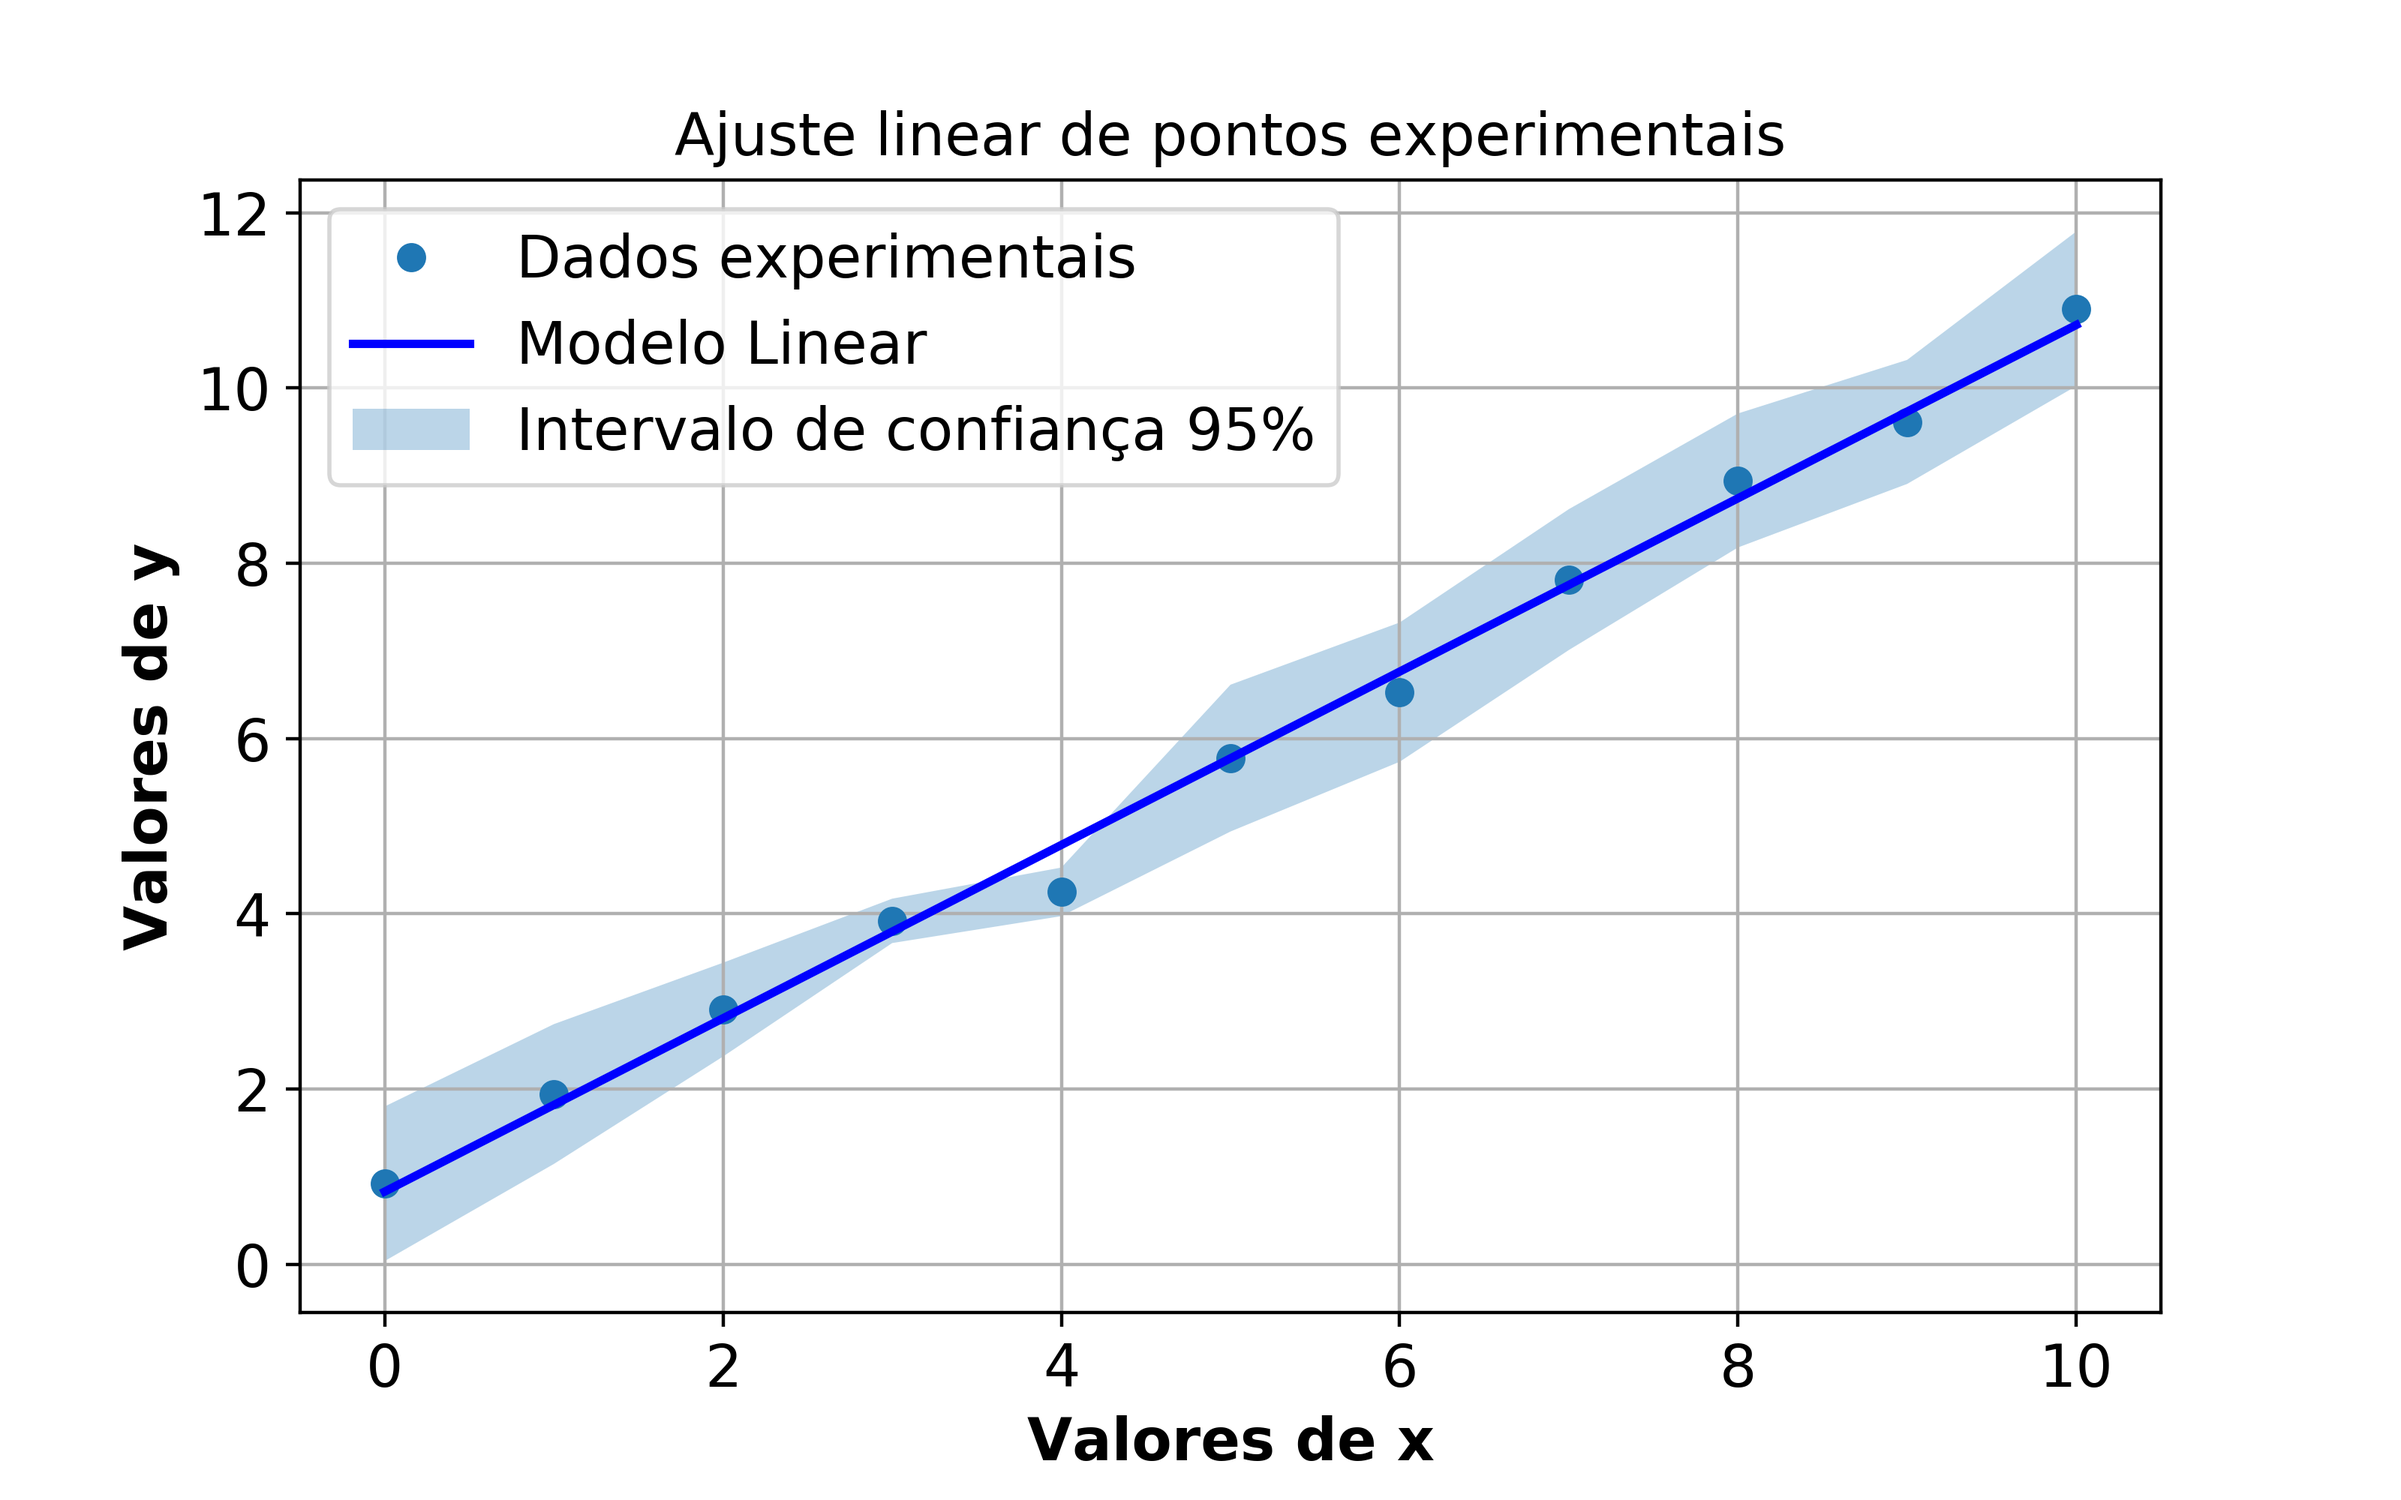
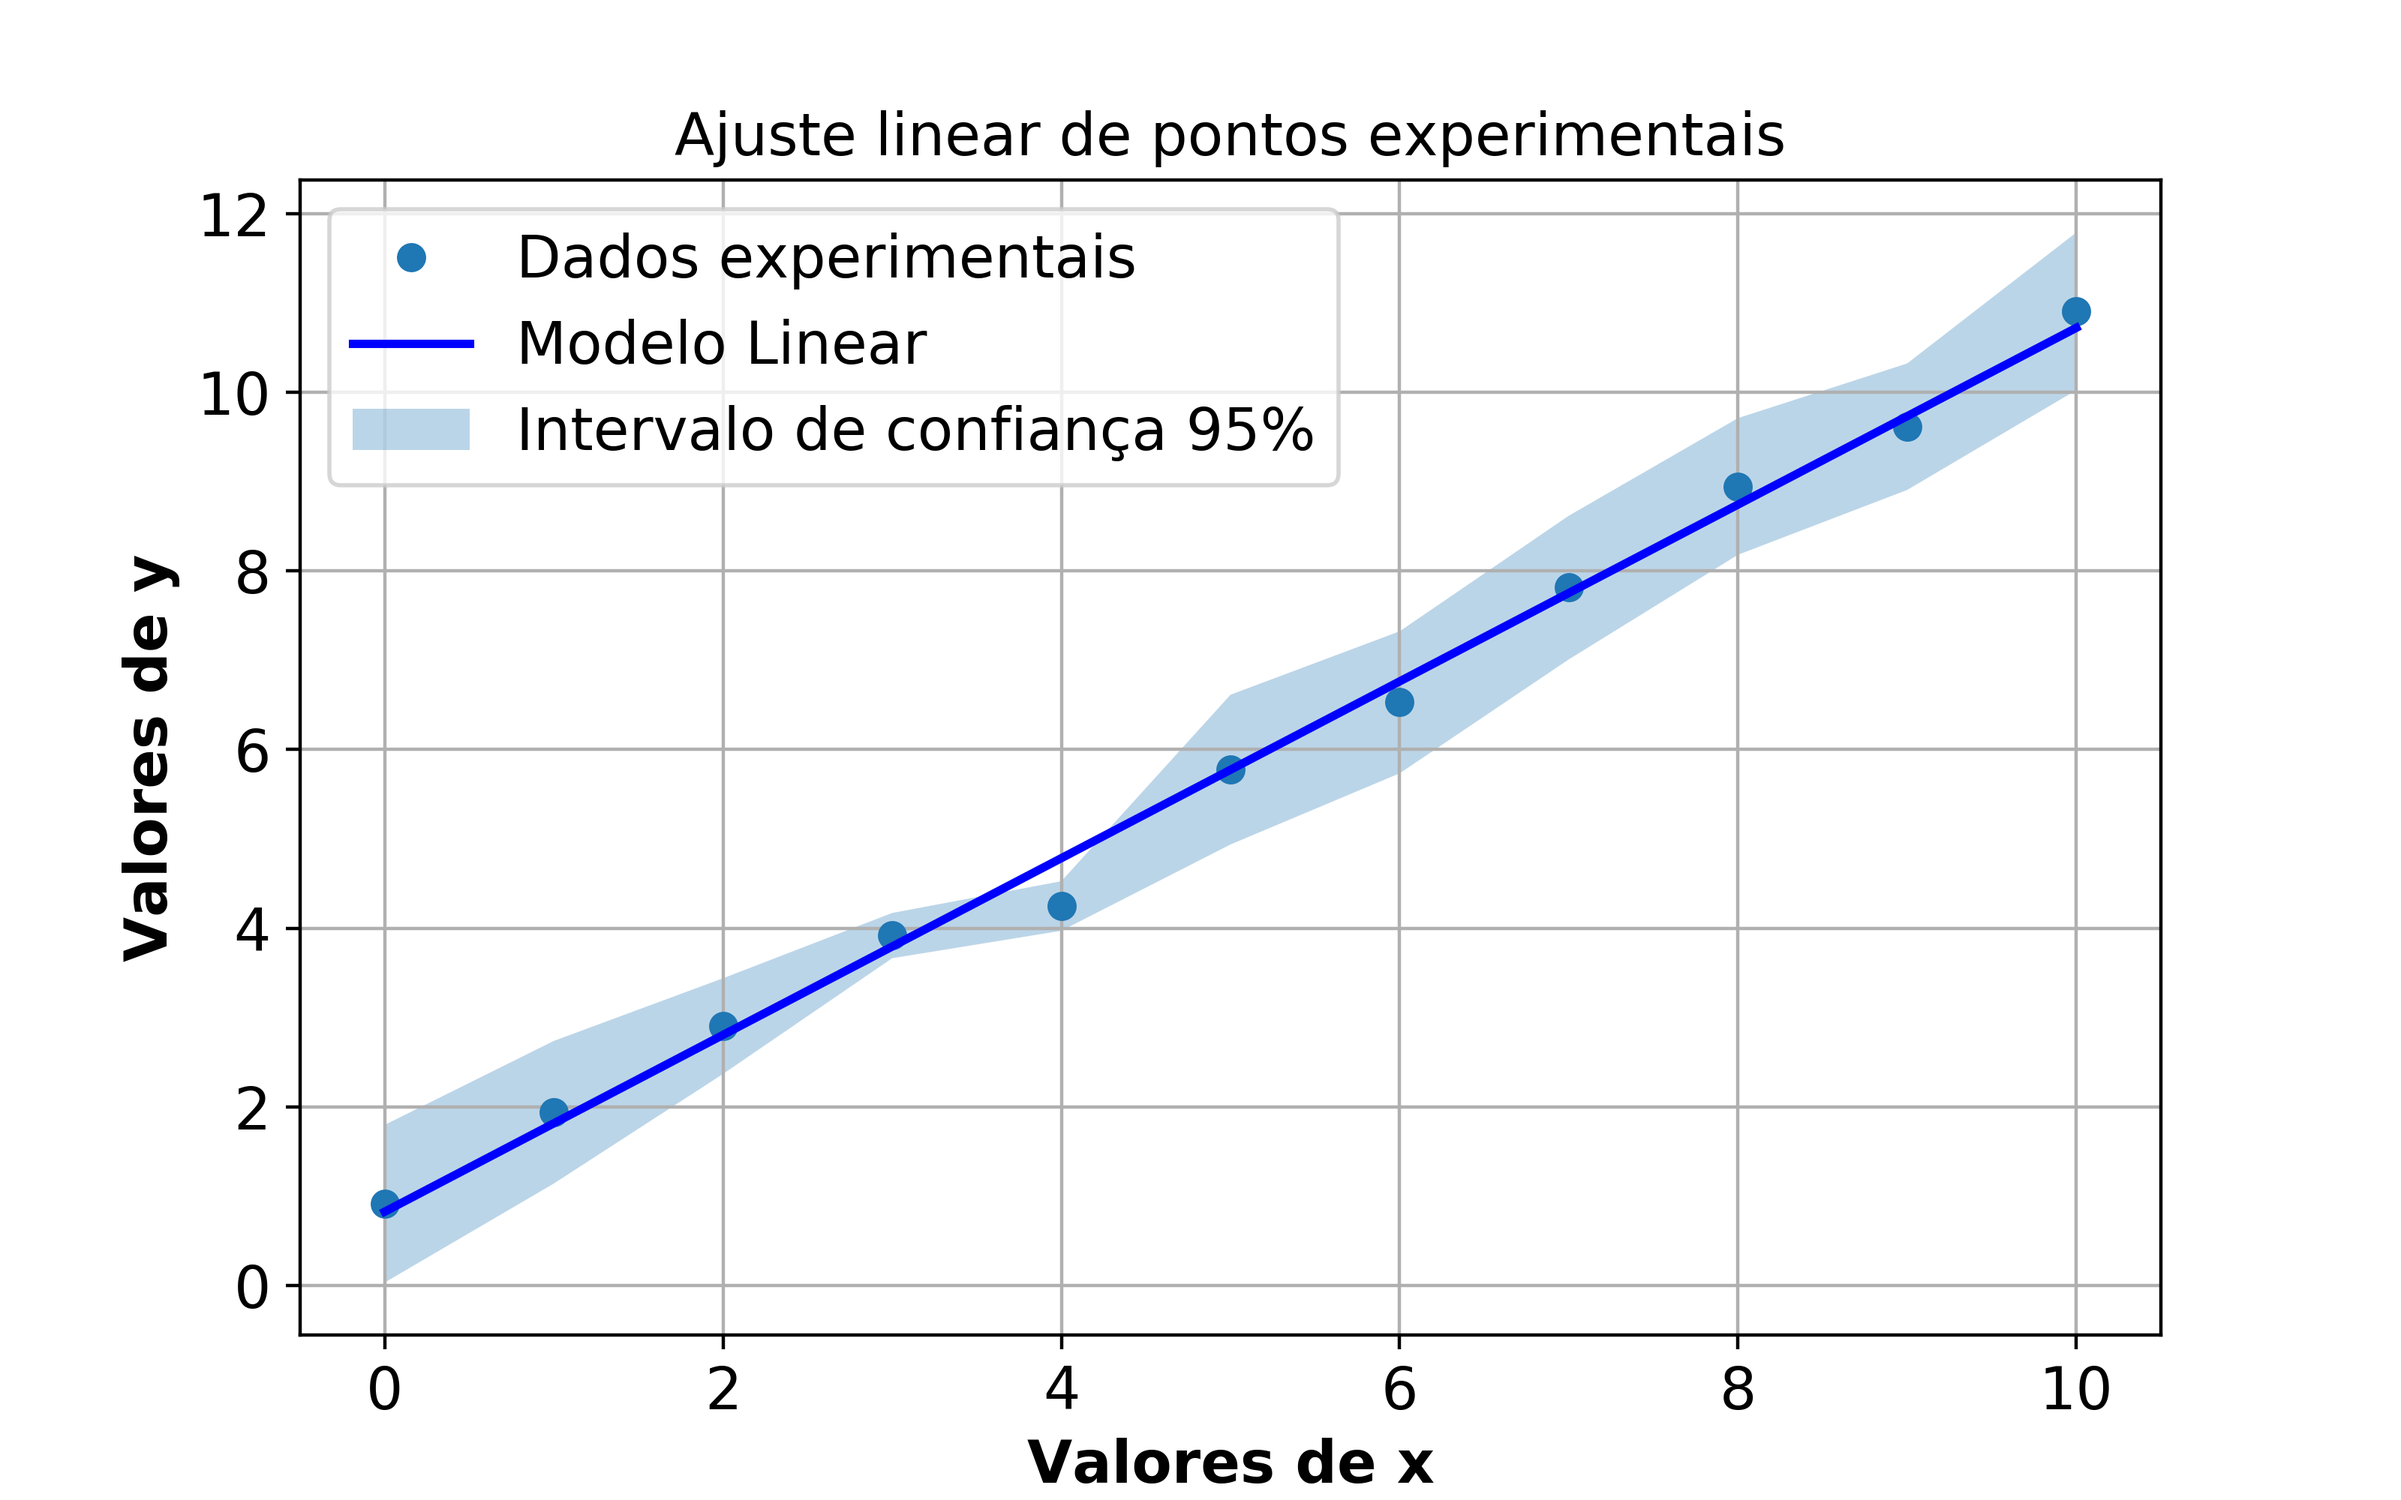
pequenas modificações
modificações na linearização no stat

Changed region(s): [[0.0312, 0.31, 0.9062, 0.992], [0.5625, 0.217, 0.9062, 0.341], [0.0938, 0.248, 0.125, 0.279]]

diff --git a/linearizacao_usando_pacote_stat.py b/linearizacao_usando_pacote_stat.py
@@ -4,18 +4,86 @@ Created on Tue May 28 09:36:54 2019
 
 @author: Marcel Otavio Cerri
 """
-
+import pandas as pd
 import numpy as np
+import matplotlib.pyplot as plt
+from scipy import stats
 from sklearn.linear_model import LinearRegression
-x = np.array([5, 15, 25, 35, 45, 55]).reshape((-1, 1))
-y = np.array([5, 20, 14, 32, 22, 38])
+
+#importando os dados
+importado = pd.read_excel("media_desvio_dados.xlsx")
+importado_np = importado.values
+x = importado_np[:,0]
+y1 = importado_np[:,1]
+y2 = importado_np[:,2]
+y3 = importado_np[:,3]
+
+a = np.array([y1,y2,y3])
+b = np.transpose(a)
+
+y_media = np.mean(b, axis=1)
+y_std = np.std(b, axis =1)
+
+mean, sigma = np.mean(b, axis = 1), np.std(b, axis = 1)
+
+conf_int = stats.norm.interval(0.95, loc=mean, 
+    scale=sigma)
+
+menor = np.array(conf_int[0])
+maior = np.array(conf_int[1])
+
+x_t= x.reshape(-1,1)
+
 model = LinearRegression()
-model.fit(x, y)
-model = LinearRegression().fit(x, y)
+model.fit(x_t, y_media)
+model = LinearRegression().fit(x_t, y_media)
+
+
+
+
 #cálculo de R2
-r_sq = model.score(x, y)
-print('coefficient of determination:', r_sq)
-print('intercept:', model.intercept_)
-print('slope:', model.coef_)
-y_pred = model.predict(x)
-print('predicted response:', y_pred, sep='\n')
+r_sq = model.score(x_t, y_media)
+y_pred = model.predict(x_t)
+
+#Impressão dos resultados
+print('O coeficiente angular é {:.4f}'.format(float(model.coef_)))
+print('O coeficiente linear é {:.4f}'.format(model.intercept_))
+print('O coeficiente de determinação do ajuste é {:.4f}'.format(r_sq))
+
+
+## Comando para determinar o tamanho segundo o qual os textos grafados no gráfico serão impressos na tela:
+SMALL_SIZE = 14                        
+MEDIUM_SIZE = 20                       
+BIGGER_SIZE = 20   
+plt.rc('font', size=SMALL_SIZE)          
+plt.rc('axes', titlesize=SMALL_SIZE)     
+plt.rc('axes', labelsize=SMALL_SIZE)    
+plt.rc('xtick', labelsize=SMALL_SIZE)    
+plt.rc('ytick', labelsize=SMALL_SIZE)    
+plt.rc('legend', fontsize=SMALL_SIZE)    
+plt.rc('figure', titlesize=BIGGER_SIZE)  
+
+#construindo o gráfico
+f = plt.figure()     
+ax = f.add_subplot(111)                                                
+lns1 = ax.plot(x,y_media,'o',label='Dados experimentais')    
+lns2 = ax.plot(x,y_pred,'b',linewidth=2,label='Modelo Linear')
+ax.set_title("Ajuste linear de pontos experimentais") 
+ax.fill_between(x, menor, maior, alpha=0.3, label = 'Intervalo de confiança 95%') 
+ax.set_xlabel('Valores de x',weight='bold')               
+ax.set_ylabel('Valores de y', weight='bold')
+ax.grid(True)                                                   
+f.set_figheight(5)                                                 
+f.set_figwidth(8)
+ax.legend(loc=0)                                                   
+f.patch.set_facecolor('white')                                       
+plt.style.use('default') 
+plt.savefig('Linearizacao_com_media.png', dpi=400)  
+plt.show()   
+
+
+#Escrevendo o arquivo de saída xlsx
+df_concents= pd.DataFrame({'Valores de x': x, 'Valores de y media':y_media, 'y do modelo':y_pred, 'coeficiente angular':float(model.coef_), 'coeficiente linear':model.intercept_})
+with pd.ExcelWriter('Saída_de_dados_linear_media.xlsx') as writer:
+    df_concents.to_excel(writer, sheet_name="Output_concent")
+    writer.save()

diff --git a/linearizacao.py b/linearizacao.py
@@ -4,17 +4,22 @@ Created on Wed May 22 15:10:19 2019
 
 @author: Marcel Otavio Cerri
 """
+
+#importando as bibliotecas
 import pandas as pd
 import numpy as np
 import matplotlib.pyplot as plt
+
 #importando os dados
 importado = pd.read_excel("entrada_dados_linear.xlsx")
 importado_np = importado.values
 x = importado_np[:,0]
 y = importado_np[:,1]
+
 #ajustando o modelo linear
 modelo_linear = np.polyfit(x,y,1)
 modelo_y = np.polyval(modelo_linear, x)
+
 ## Comando para determinar o tamanho segundo o qual os textos grafados no gráfico serão impressos na tela:
 SMALL_SIZE = 14                        
 MEDIUM_SIZE = 20                       
@@ -41,18 +46,21 @@ f.set_figwidth(8)
 ax.legend(loc=0)                                                   
 f.patch.set_facecolor('white')                                       
 plt.style.use('default') 
-plt.savefig('Linearizacao.png', dpi=400)  
+plt.savefig('Linearizacao.png', dpi=500)  
 plt.show()   
+
 #Estimando o coeficiente de determinação
 yresid = y - modelo_y
 SQresid = sum(yresid**2)
 y_tot = y - np.mean(y)
 SQtotal = sum(y_tot**2)
 R2 = 1 - SQresid/SQtotal
+
 #Impressão dos resultados
 print('O coeficiente angular é {:.4f}'.format(modelo_linear[0]))
 print('O coeficiente linear é {:.4f}'.format(modelo_linear[1]))
 print('O coeficiente de determinação do ajuste é {:.4f}'.format(R2))
+
 #Escrevendo o arquivo de saída xlsx
 df_concents= pd.DataFrame({'Valores de x': x, 'Valores de y':y, 'y do modelo':modelo_y, 'coeficiente angular':modelo_linear[0], 'coeficiente linear':modelo_linear[1]})
 with pd.ExcelWriter('Saída_de_dados_linear.xlsx') as writer:

diff --git a/linearizacao_com_media.py b/linearizacao_com_media.py
@@ -30,9 +30,10 @@ conf_int = stats.norm.interval(0.95, loc=mean,
 menor = np.array(conf_int[0])
 maior = np.array(conf_int[1])
 
- #ajustando o modelo linear
+#ajustando o modelo linear
 modelo_linear = np.polyfit(x,y_media,1)
 modelo_y = np.polyval(modelo_linear, x)
+
 ## Comando para determinar o tamanho segundo o qual os textos grafados no gráfico serão impressos na tela:
 SMALL_SIZE = 14                        
 MEDIUM_SIZE = 20                       
@@ -62,16 +63,19 @@ f.patch.set_facecolor('white')
 plt.style.use('default') 
 plt.savefig('Linearizacao_com_media.png', dpi=400)  
 plt.show()   
+
 #Estimando o coeficiente de determinação
 yresid = y_media - modelo_y
 SQresid = sum(yresid**2)
 y_tot = y_media - np.mean(y_media)
 SQtotal = sum(y_tot**2)
 R2 = 1 - SQresid/SQtotal
+
 #Impressão dos resultados
 print('O coeficiente angular é {:.4f}'.format(modelo_linear[0]))
 print('O coeficiente linear é {:.4f}'.format(modelo_linear[1]))
 print('O coeficiente de determinação do ajuste é {:.4f}'.format(R2))
+
 #Escrevendo o arquivo de saída xlsx
 df_concents= pd.DataFrame({'Valores de x': x, 'Valores de y media':y_media, 'y do modelo':modelo_y, 'coeficiente angular':modelo_linear[0], 'coeficiente linear':modelo_linear[1]})
 with pd.ExcelWriter('Saída_de_dados_linear_media.xlsx') as writer:
